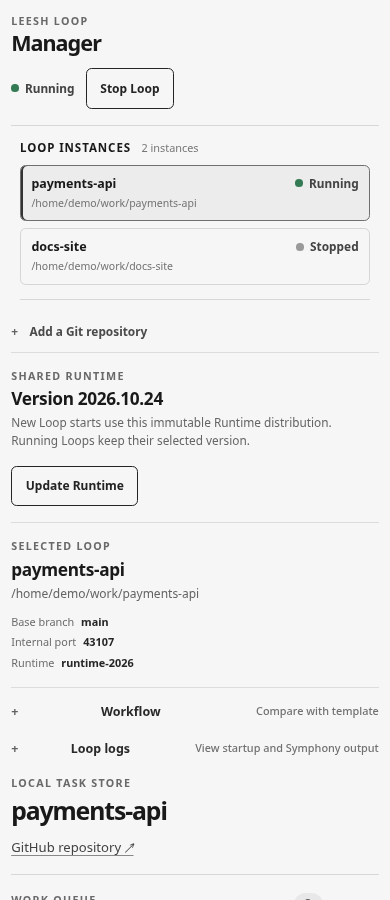
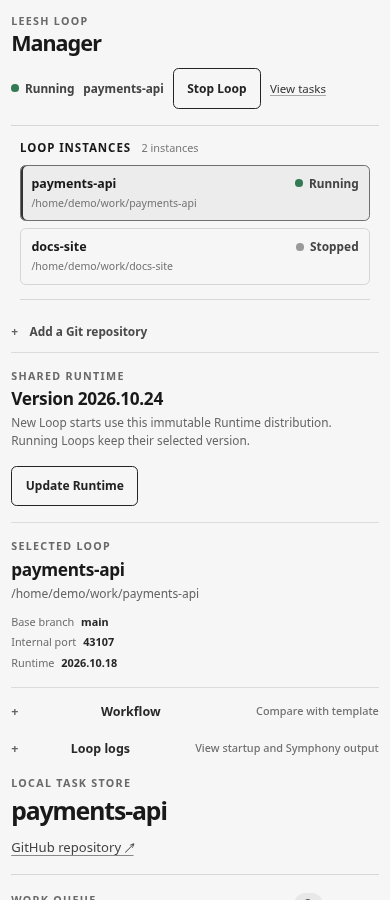
Refresh Manager UI review captures

diff --git a/docs/ui-evidence/README.md b/docs/ui-evidence/README.md
@@ -2,9 +2,9 @@
 
 ## Central Manager design evidence
 
-These captures show the production Operator UI bundle rendered from PR #120's UI source at commit `9d8a3b602d98b250f175a5ccaefa1728f9f230a8`. The local fixture in `capture-manager-demo.mjs` supplies synthetic, read-only instance, Runtime, Workflow, and Task responses; no Manager Service, real repository, or Task Store was used. Treat the displayed names, paths, statuses, port, Runtime version, and tasks as illustrative data. These images support visual review only; they do not verify lifecycle behavior or live service integration.
+These captures show the production Operator UI bundle rendered from PR #120's UI source at commit `785554a4a86e6262d2f1368430aa7bc69a25b771`. The local fixture in `capture-manager-demo.mjs` supplies synthetic, read-only instance, Runtime, Workflow, and Task responses; no Manager Service, real repository, or Task Store was used. Treat the displayed names, paths, statuses, port, Runtime version, and tasks as illustrative data. These images support visual review only; they do not verify lifecycle behavior or live service integration.
 
-- Desktop overview at 1440×1200: two instance statuses, shared Runtime, selected Loop details, and the task queue.
+- Desktop overview at 1440×1200: two instance statuses, shared Runtime version 2026.10.24, selected Loop Runtime version 2026.10.18, selected repository beside its lifecycle action, and the task queue.
 
   ![Manager desktop overview with two synthetic instances and the task queue](manager-overview-desktop.png)
 
@@ -12,11 +12,11 @@ These captures show the production Operator UI bundle rendered from PR #120's UI
 
   ![Manager desktop Workflow comparison with the update control disabled for a running Loop](manager-workflow-desktop.png)
 
-- Narrow layout at 390×900: lifecycle action, instance list, Runtime, selected Loop details, and stacked Operator entry point.
+- Narrow layout at 390×900: lifecycle action beside the selected repository, a visible “View tasks” jump link, instance list, Runtime, selected Loop details, and stacked Operator entry point.
 
   ![Manager narrow layout with the full instance list and selected Loop details](manager-overview-mobile.png)
 
-The desktop and narrow layouts were also opened in Chrome through the browser control during review. The narrow viewport was set explicitly to 390×900 and reset after inspection.
+The desktop and narrow layouts were also opened in Chrome through the browser control during review. In both layouts, “View tasks” navigates to and focuses the Tasks heading. The narrow viewport was set explicitly to 390×900 and reset after inspection.
 
 ## Current selected-task treatment
 
